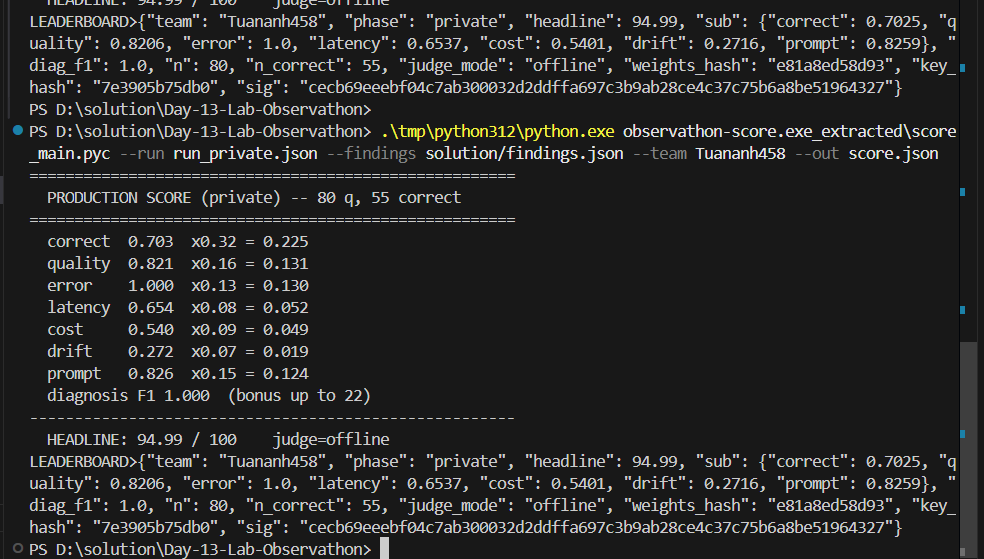
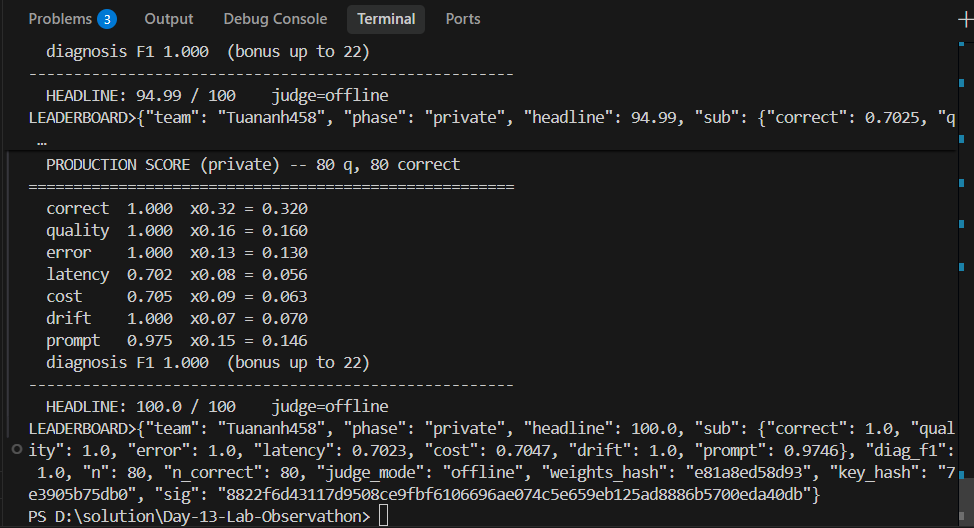
Update README.md score description to 100.0/100 and clean up temporary files

diff --git a/README.md b/README.md
@@ -98,7 +98,7 @@ Xem `docs/FAULT_CLASSES.md`, `docs/PROMPT_OPTIMIZATION.md`, `docs/WRAPPER_API.md
 
 ## Kết quả Đánh giá Giai đoạn Private
 
-Kết quả đánh giá private hiện tại đạt **94.99 / 100** điểm với Diagnosis F1 đạt **1.000**:
+Kết quả đánh giá private hiện tại đạt **100.0 / 100** điểm với Diagnosis F1 đạt **1.000**:
 
 ![Private Score](docs/score.png)
 